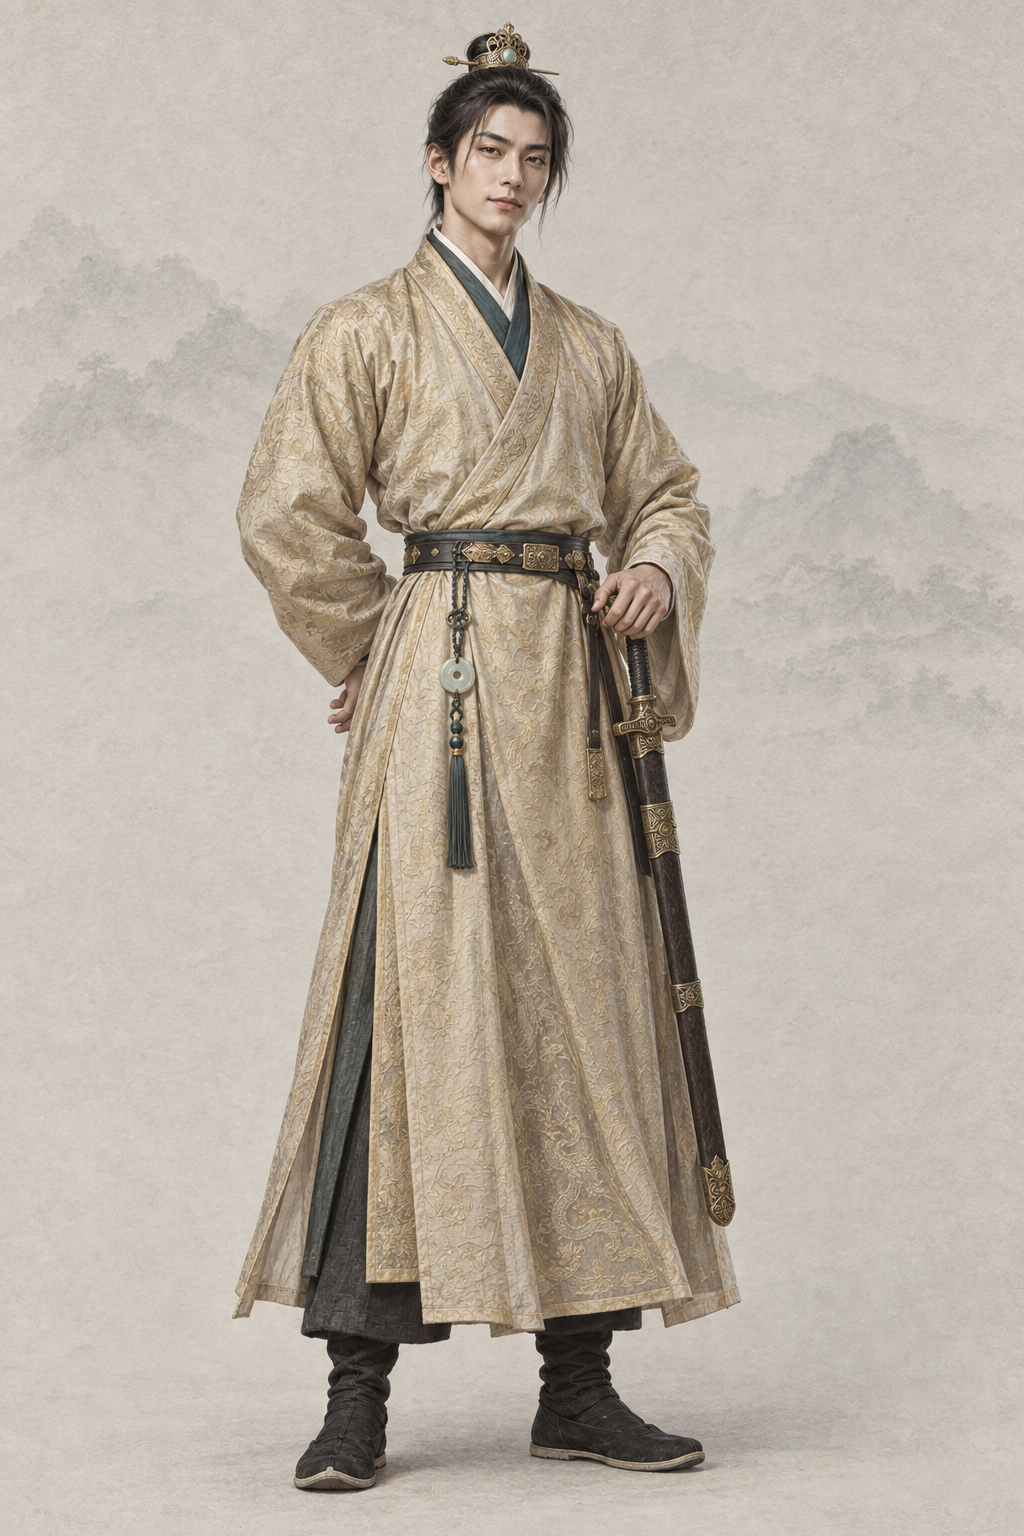
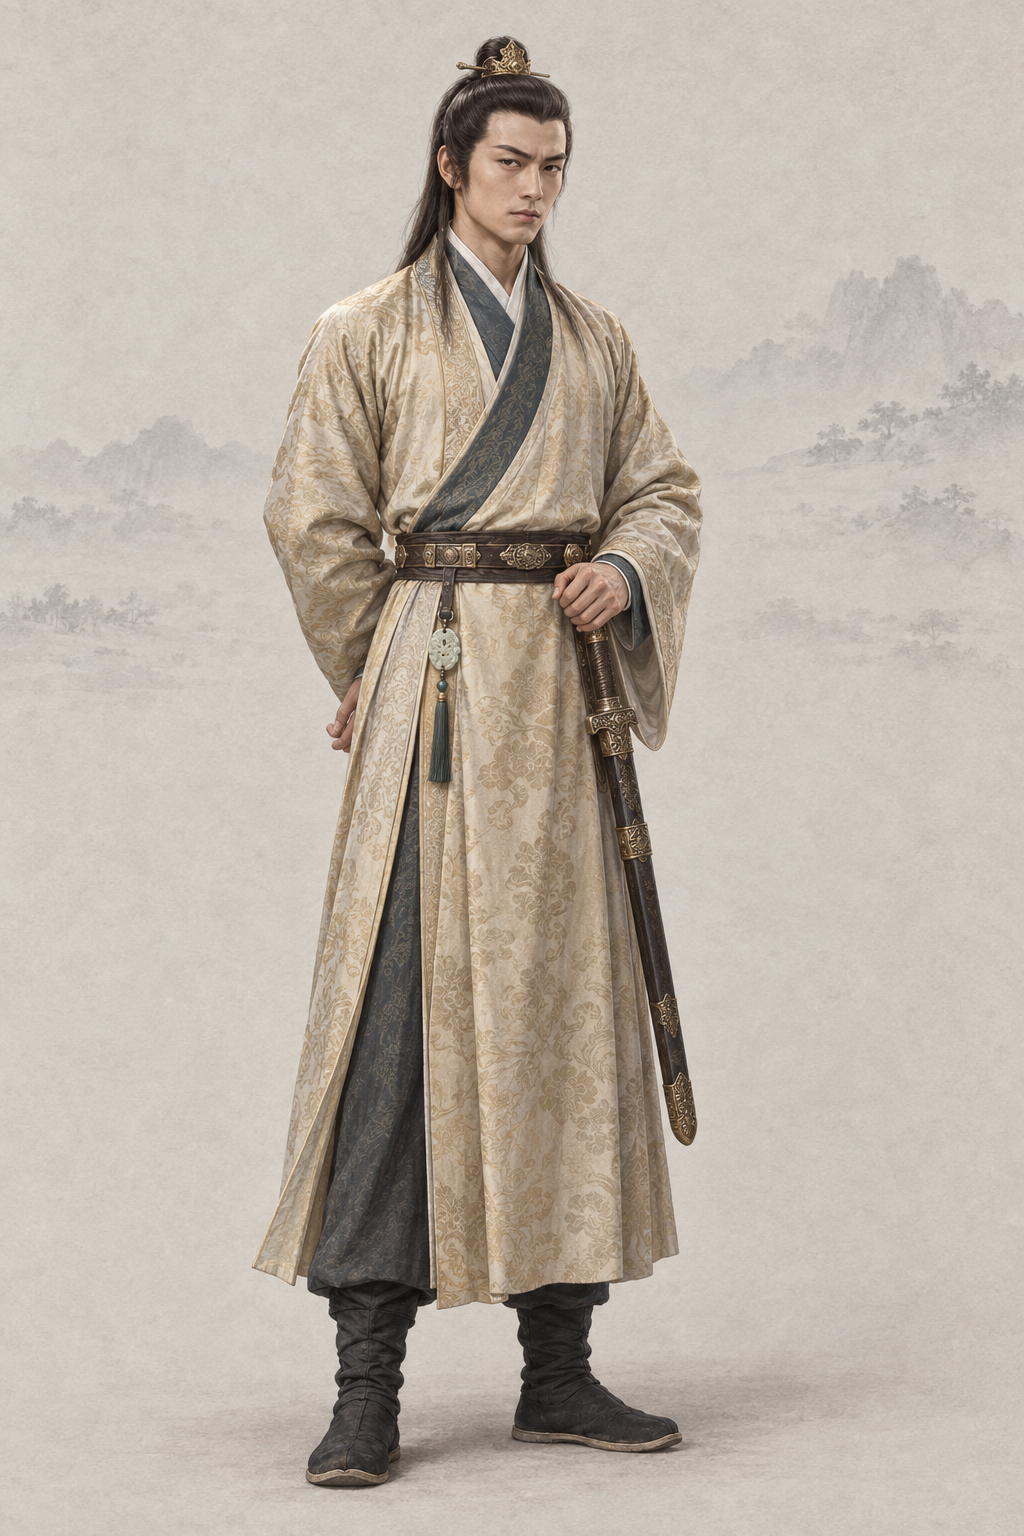
assets(character): por_npc_yangkang__ch02_youth_wangfu_base 杨康（codex · AR-32 经典剧照 + 基线）
参考 1983 TVB《射雕英雄传》 剧照（yangkang_1983_miaoqiaowei_sina_gallery1_20261002.jpg）与两张同性别基线重出；提示词写回、frontmatter 加 classic_ref。

diff --git a/assets/default/prompts/characters/ch02-shediao/npc_yangkang.md b/assets/default/prompts/characters/ch02-shediao/npc_yangkang.md
@@ -17,13 +17,40 @@ status: redo
 realism_revision: user_identity_pose_20261001
 redo_reason: "面容源自 1983 版剧照（肖像风险），按原著金国小王爷的俊美骄矜用文字原创重做"
 reference_upload:
+- .agents/coord/imagegen-reference/identity-20261001/shediao/yangkang_1983_miaoqiaowei_sina_gallery1_20261002.jpg
 - assets/default/baseline/character/male/ref_npc_linghuchong__ch05_base01.png
+- assets/default/baseline/character/male/ref_npc_xiaofeng__ch01_base01.png
 codex_prompt_rev: 2026-10-02
+classic_ref:
+  version: 1983 TVB《射雕英雄传》
+  stills:
+  - .agents/coord/imagegen-reference/identity-20261001/shediao/yangkang_1983_miaoqiaowei_sina_gallery1_20261002.jpg
 ---
 
 # 杨康 · 人物写实修正
 
 ## Gemini 提示词
+
+> 2026-10-02 AR-32 重出（5 号出图员，codex exec · image_gen）：主要角色改为参考经典影视版剧照加项目基线生成。上传顺序：1983 TVB《射雕英雄传》 剧照 1 张（yangkang_1983_miaoqiaowei_sina_gallery1_20261002.jpg），最后两张为同性别画风基线（缩小版 JPEG）。剧照只借造型、气质与面部特征，画面按项目画风重绘、不复制照片。上一版（AR-31 文字版）保留在下一节作历史。
+
+```text
+生成一张 2:3 竖幅全身人物立绘：单人、单一视角、完整全身——头顶、双手、双脚和手中器物的两端都在画面内，四周留出自然空白；人物站姿自然，身体基本朝向正面，头部端正（不歪头、不仰不俯），镜头平视。
+【画风】写实手绘古风人物插画，与本项目写实武侠角色立绘同一画风：人物是完整、坚实、比例真实的写实绘画；皮肤有真实质感——细小毛孔、细纹、晒痕、轻微色斑和自然的左右不对称，不磨皮、不油亮；头发有一根根的发丝和自然碎发；布料看得出经纬纹理、厚薄和自然垂坠的褶皱，带穿用过的轻微旧化，但完整不破烂；整体设色低饱和、沉稳；柔和的自然光从左上方照来，明暗过渡自然，不打舞台光、轮廓光或美颜柔光。这是手绘写实绘画，不是照片，不是三维渲染，也不是动漫或游戏 CG。
+【背景】不透明的暖浅灰色纸底，只在远处有极淡的水墨远山和薄雾，大面积留白；人物与背景明暗分明、轮廓边缘干净完整（后续要自动抠图），水墨和纸纹只在背景里，不侵入人物和衣服；脚下只有很淡的一点接触阴影。
+【人物】杨康（完颜康），《射雕英雄传》金国赵王府的小王爷，杨铁心的亲生儿子；身世揭露之前的贵公子阶段。聪明俊美，却骄矜轻浮、贪恋富贵。
+【年龄与体态】约二十岁的青年，身材修长挺拔（约 7.5 头身）。
+【经典造型】以八十年代经典港剧里那位俊美骄矜的小王爷为蓝本（见剧照）：英挺俊美的脸、剑眉星目，眼神里带着骄矜和一丝狡黠；黑发束髻、戴小金冠，额前几缕碎发；锦衣华服、风流倜傥，笑容里带着一丝轻浮和算计。
+【面容】长圆脸、眉目俊秀：剑眉修长、眉尾上挑，一双丹凤眼眼尾细长，眼神里带着骄矜和一丝狡黠；鼻梁高直；薄唇，嘴角习惯性地微微上扬；皮肤白皙。面容比郭靖清秀精致得多。俊美出众的贵公子。
+【发式】黑发束成整洁小髻，戴一顶素雅的小金冠。
+【服饰】金境汉式贵公子装：淡金米色锦缎长袍（暗纹，交领右衽），深青内领，窄腰带上系一块玉佩，深色长裤、黑色软靴。
+【道具】腰悬一柄装饰讲究的长剑，完整入鞘。
+【姿态与神情】昂首站立，一手按在剑柄上、一手负在身后；神情骄矜自信。
+【不要】画面里不要任何文字、题款、印章、签名、水印、边框、分格或多视图；不要第二个人；不要幼态（童颜、娃娃脸、婴儿肥、儿童或少年身材、大头小身）；不要塑料感皮肤、磨皮美颜、网红脸（尖下巴大眼高鼻的模板脸）、过度对称、浓妆、偶像式打光、蜡像感；不要照片质感、三维渲染或动漫大眼；不要歪头、斜镜头；不要多指、缺指（设定的伤残除外）、手与器物粘连或悬空；汉式交领必须右衽（穿着者的左襟压在右襟上），不要左衽（设定为少数民族服制的除外），不要水平镜像；不要现代物品、发光特效、法阵或能量光。不要道冠法衣；不要铁枪庙中毒的伤病状态。
+【参考图】随提示词上传的参考图共 3 张，按顺序：第 1 张是这个角色经典影视造型的剧照：借鉴其发型、服饰、配色、标志道具、气质和面部特征，让人一眼认出是这个角色；但必须重新绘制成本项目的画风，不要照片质感，不要照搬剧照的构图、光影、背景和姿势，也不要做成照片修图；剧照与上文文字有出入时，以上文文字为准。最后两张是本项目的立绘画风基线：画风、用色、光线、质感和暖浅灰纸底加淡水墨的背景以它们为准——精细写实的数字手绘插画，不是油画，不要厚涂笔触和画布纹理；基线图里人物的长相、年龄、发型、服饰和姿势一律不取。
+【去 AI 味】手绘插画质感，不是 CG 渲染：不要过度光滑的皮肤、完美对称的五官、塑料高光、过度锐利的发丝；保留自然的笔触和细微不完美。
+```
+
+## AR-31 文字版 Gemini 提示词（2026-10-02 凌晨；AR-32 剧照版之前，历史，不再用于出图）
 
 > 2026-10-02 AR-31 改写（1 号出图员，codex exec · image_gen 出图）：重要人物借鉴经典影视造型，只写成文字——不写演员名、不上传剧照、原创面孔；主角和美人画得好看，去 AI 味，禁止幼态。出图时上传两张同性别基线立绘作画风参考（放在最后）。审核组原稿保留在下一节作历史。
 
